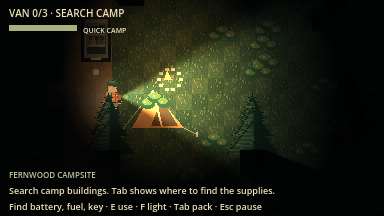
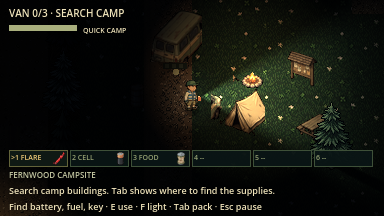
Line trails with a forest tree line; menu buttons on the right; retake README shots
- Dense jittered trees and shrubs along every woods trail edge, darker floor
  under the forest walls.
- Sight mask now reaches 12 px into walls and fades over 18 px; edge trees
  whose trail patch is in sight draw whole above the mask.
- Host/Join Co-op and Settings move into the right-hand menu column so the
  title art is unobstructed.
- All README screenshots retaken with the current art into docs/screenshots,
  including new landmark close-ups from the surround_world tour.

diff --git a/README.md b/README.md
@@ -16,7 +16,7 @@ source; standalone packages are a later milestone.
 
 See the [item reference](#items) for every item, its location and how to use it.
 
-![The forest menu with Woods Expedition and optional seed selection](docs/evidence/sight_audio/menu_defaults.png)
+![Title screen over the moonlit camp illustration, with Woods Expedition and optional seed selection](docs/screenshots/menu_defaults.png)
 
 ## Survivors, biomes and the item belt
 
@@ -50,7 +50,7 @@ Bramble Orchard, Starless Observatory, Last-Car Rail Yard, White Stone Quarry,
 and Drowned Chapel**. Each has multiple approaches, a one-time rare tool and a
 territorial guardian. Required components still come from the original regions.
 
-![Survivor selection](docs/evidence/multiplayer/survivor_selection.png)
+![Survivor selection](docs/screenshots/survivor_selection.png)
 
 [Full content guide and inspection screenshots](docs/content_update.md) covers
 hunter/guardian counterplay and the current prototype limits.
@@ -98,13 +98,16 @@ points back toward camp. The village lies northwest, bog east and graveyard sout
   their field map and as an edge marker, with a shared "pinned WITCH'S BOG"
   notice. Each player keeps their newest three pins.
 
-![Signpost arrows to camp, village and graveyard in the flashlight beam](docs/evidence/navigation/nav_signpost.png)
+![Signpost arrows to camp, village and graveyard in the flashlight beam](docs/screenshots/nav_signpost.png)
 
 Both modes default to fresh randomized camp layouts. Loot, required extra parts,
 weather, creature homes and trails use the run seed. Music plays on the menu;
 **Settings** holds the saved mixer before Play. Foreground canopies fade when
 they cover the camper, and view-local scenery rendering keeps distant forest
-active for gameplay without drawing thousands of tree sprites at once.
+active for gameplay without drawing thousands of tree sprites at once. Every
+trail is lined with dense trees and undergrowth; your sight reaches just into
+that tree line and fades to darkness, so you see the forest rising around the
+path but never the next trail through it.
 
 ## Play from source
 
@@ -146,7 +149,7 @@ explains routing, joining, revives, shared escape and replay. New joins are
 lobby-only. **Esc opens a local menu without pausing the shared world.**
 Voice/microphone capture is not enabled.
 
-![Connected co-op lobby](docs/evidence/multiplayer/lobby_camp_2.png)
+![Connected co-op lobby](docs/screenshots/lobby.png)
 
 ## Choose your night
 
@@ -464,7 +467,7 @@ the current build. Local sound follows replicated world movement; synchronized
 audio event/listening acceptance remains pending. See the [cue manifest and provenance notes](assets/audio/README.md).
 Final listening/balance and Windows/Linux/exported audio remain unverified.
 
-![Pause menu with saved Master, Effects, Ambience and Music controls](docs/evidence/audio_polish/audio_pause_mixer.png)
+![Pause menu with saved Master, Effects, Ambience and Music controls](docs/screenshots/audio_pause_mixer.png)
 
 ## Use the forest sites
 
@@ -511,7 +514,7 @@ Both modes vary building positions and surrounding trees within reserved camp
 lots. Bunk cabins can trade places, as can the bathhouse and first aid building. Door paths, loot and field-map markers move together. Roof footprints
 and main trails stay separate. Retrying a seed reproduces the camp too.
 
-![Current full-map example for Night 42 with all nine numbered regions, central Fernwood camp and 48 cryptid spawn positions](docs/evidence/denser_forest/full_map.png)
+![Current full-map example for Night 42 with all nine numbered regions, central Fernwood camp and 48 cryptid spawn positions](docs/screenshots/full_map.png)
 
 **Full-map example — Night 42.** Numbers match the region names around the map;
 **C** marks Fernwood camp and coral dots mark the 48 cryptid starting positions.
@@ -537,33 +540,33 @@ noticeably bigger than the campers.
 
 ## Screenshots
 
-Actual Godot viewport captures. The original camp/forest screenshots below are
-from the earlier verified baseline; the new-monster and optional-biome galleries
-show the content update. The camp images use Quick Camp. Region overviews deliberately raise ambient
-light and disable the sight mask to inspect entrances; normal play keeps both
+Actual Godot viewport captures with the current SpriteCook art, retaken on
+17 October 2026 (see [screenshot sources](docs/screenshots/README.md)). The camp
+images use Quick Camp. Region and landmark shots deliberately raise ambient
+light and disable the sight mask so the art is visible; normal play keeps both
 night lighting and sight restrictions. Close creature shots are inspection fixtures with
 AI disabled and the camera offset for composition. The escape result comes from
 a complete automated expedition with all enemies active.
 
-| Campsite and local lighting | Furnished Ranger Lodge |
+| Campsite, tent and escape van | Furnished mess hall |
 | --- | --- |
-| ![Camper beside the lit campsite and escape van](docs/screenshots/campsite.png) | ![Flashlight illuminating the Ranger Lodge interior](docs/screenshots/ranger_lodge.png) |
+| ![Camper beside the campfire, tent and escape van](docs/screenshots/campsite.png) | ![Flashlight on the mess hall tables, benches and stove](docs/screenshots/mess_hall.png) |
 
 | Dark woods and flashlight | Field notes and explored trails |
 | --- | --- |
-| ![A narrow flashlight beam reveals trees in otherwise dark woods](docs/evidence/surround_forest/woods_light_on.png) | ![Five-part objective clues beside the partially explored woods map](docs/evidence/surround_forest/woods_field_notes.png) |
+| ![A narrow flashlight beam reveals trees in otherwise dark woods](docs/screenshots/woods_light_on.png) | ![Five-part objective clues beside the partially explored woods map](docs/screenshots/woods_field_notes.png) |
 
 | Werewolf | Sasquatch (Bigfoot) | Lantern moth |
 | --- | --- | --- |
-| ![Original werewolf walking sprite in a flashlight beam](docs/evidence/forest_hunt/woods_werewolf.png) | ![Long-armed Sasquatch sprite in a flashlight beam](docs/evidence/forest_hunt/woods_bigfoot.png) | ![Original lantern moth sprite with patterned wings](docs/evidence/forest_hunt/woods_lantern_moth.png) |
+| ![Original werewolf walking sprite in a flashlight beam](docs/screenshots/woods_werewolf.png) | ![Long-armed Sasquatch sprite in a flashlight beam](docs/screenshots/woods_bigfoot.png) | ![Original lantern moth sprite with patterned wings](docs/screenshots/woods_lantern_moth.png) |
 
 | Vampire | Witch | Briar revenant |
 | --- | --- | --- |
-| ![Pale vampire with a high collar and long cloak](docs/evidence/forest_hunt/woods_vampire.png) | ![Witch with staff and pointed hat](docs/evidence/forest_hunt/woods_witch.png) | ![Antlered briar revenant with twig limbs](docs/evidence/forest_hunt/woods_briar_revenant.png) |
+| ![Pale vampire with a high collar and long cloak](docs/screenshots/woods_vampire.png) | ![Witch with staff and pointed hat](docs/screenshots/woods_witch.png) | ![Antlered briar revenant with twig limbs](docs/screenshots/woods_briar_revenant.png) |
 
 | Abandoned village | Witch's bog | Old graveyard |
 | --- | --- | --- |
-| ![Village huts, bell frame and well](docs/evidence/surround_forest/surround_village.png) | ![Glowing cauldron in a marsh clearing](docs/evidence/surround_forest/surround_bog.png) | ![Crypt and crooked gravestones](docs/evidence/surround_forest/surround_graveyard.png) |
+| ![Cobbled village square with the bell frame and well](docs/screenshots/landmark_village.png) | ![Bubbling cauldron on the bog boardwalk](docs/screenshots/landmark_bog.png) | ![Crypt and gravestones in dead graveyard grass](docs/screenshots/landmark_graveyard.png) |
 
 ### New monster close-ups
 
@@ -573,44 +576,45 @@ than concept art; the monster table above explains their current powers.
 
 | Switchback Hound | Boiler Saint | Bramble Seamstress |
 | --- | --- | --- |
-| ![Switchback Hound with exposed teeth and long clawed legs](docs/evidence/content_expansion/monster_switchback_hound.png) | ![Boiler Saint with brass body gauge and pipe equipment](docs/evidence/content_expansion/monster_boiler_saint.png) | ![Bramble Seamstress with twig crown and long needle](docs/evidence/content_expansion/monster_bramble_seamstress.png) |
+| ![Switchback Hound with exposed teeth and long clawed legs](docs/screenshots/monster_switchback_hound.png) | ![Boiler Saint with brass body gauge and pipe equipment](docs/screenshots/monster_boiler_saint.png) | ![Bramble Seamstress with twig crown and long needle](docs/screenshots/monster_bramble_seamstress.png) |
 
 | Shutter Wraith | Last-Car Conductor | Stoneback Ram |
 | --- | --- | --- |
-| ![Shutter Wraith with lens face and layered shroud](docs/evidence/content_expansion/monster_shutter_wraith.png) | ![Last-Car Conductor with uniform cap and hand lamp](docs/evidence/content_expansion/monster_last_car_conductor.png) | ![Stoneback Ram with stone plates and curved horns](docs/evidence/content_expansion/monster_stoneback_ram.png) |
+| ![Shutter Wraith with lens face and layered shroud](docs/screenshots/monster_shutter_wraith.png) | ![Last-Car Conductor with uniform cap and hand lamp](docs/screenshots/monster_last_car_conductor.png) | ![Stoneback Ram with stone plates and curved horns](docs/screenshots/monster_stoneback_ram.png) |
 
-![Candle Grazer with burning candles along its back](docs/evidence/content_expansion/monster_candle_grazer.png)
+![Candle Grazer with burning candles along its back](docs/screenshots/monster_candle_grazer.png)
 
 ### More roaming encounters
 
 | Relay Jackal | Ration Moth | Lens Eater |
 | --- | --- | --- |
-| ![Relay Jackal with tall ears and curved tail](docs/evidence/denser_forest/monster_relay_jackal.png) | ![Ration Moth with layered paper-like wings](docs/evidence/denser_forest/monster_ration_moth.png) | ![Lens Eater with a large vertical iris](docs/evidence/denser_forest/monster_lens_eater.png) |
+| ![Relay Jackal with tall ears and curved tail](docs/screenshots/monster_relay_jackal.png) | ![Ration Moth with layered paper-like wings](docs/screenshots/monster_ration_moth.png) | ![Lens Eater with a large vertical iris](docs/screenshots/monster_lens_eater.png) |
 
 These three species roam ordinary trails; they do not require a biome encounter.
 
 ### New optional biomes
 
-The following captures show each new region and its local guardian. Lighting is
-brightened and sight masking disabled for the inspection tour; normal play keeps
+The following captures show each new region's centrepiece at gameplay zoom,
+with the HUD hidden. Lighting is brightened and sight masking disabled for the
+inspection tour; normal play keeps
 night lighting and occlusion. The forest-site table above covers rewards, risks
 and how to navigate each site.
 
-| Flooded Mill — waterwheel, boiler and plank crossings | Bramble Orchard — fruit rows and trellises |
+| Flooded Mill — waterwheel and plank crossings | Bramble Orchard — fruit rows and trellises |
 | --- | --- |
-| ![Flooded Mill with waterwheel, gauge boiler, channels and bridges](docs/evidence/denser_forest/biome_mill.png) | ![Bramble Orchard with trellis, fruit trees and vine rows](docs/evidence/denser_forest/biome_orchard.png) |
+| ![Flooded Mill with waterwheel, relic altar and plank bridges over the channels](docs/screenshots/landmark_mill.png) | ![Bramble Orchard with trellis, fruit trees, fences and relic altar](docs/screenshots/landmark_orchard.png) |
 
-| Starless Observatory — dome and telescope | Last-Car Rail Yard — tracks and switches |
+| Starless Observatory — dome and survey rings | Last-Car Rail Yard — tracks and signals |
 | --- | --- |
-| ![Observatory dome and telescope above a radial tiled court](docs/evidence/denser_forest/biome_observatory.png) | ![Rail Yard with paired tracks, sleepers, switch and signal](docs/evidence/denser_forest/biome_rail.png) |
+| ![Observatory dome above a tiled court with survey rings](docs/screenshots/landmark_observatory.png) | ![Rail Yard with paired tracks, boxcars and two rail signals](docs/screenshots/landmark_rail.png) |
 
-| White Stone Quarry — terraces and survey rings | Drowned Chapel — columns and cross mosaic |
+| White Stone Quarry — terraces and stone piles | Drowned Chapel — columns and shrine |
 | --- | --- |
-| ![Quarry with stepped terrace markings, ladders and stone clusters](docs/evidence/denser_forest/biome_quarry.png) | ![Chapel court with broken columns, candle pews and a cross mosaic](docs/evidence/denser_forest/biome_chapel.png) |
+| ![Quarry court with ladders, stone piles and relic altar](docs/screenshots/landmark_quarry.png) | ![Chapel court with two columns, a shrine and candle pews](docs/screenshots/landmark_chapel.png) |
 
 ### Supply belt
 
-![All six supply-type slots with a noise tin selected in ordinary night lighting](docs/evidence/multiplayer/item_belt.png)
+![All six supply-type slots with a noise tin selected in ordinary night lighting](docs/screenshots/item_belt.png)
 
 The selected slot is highlighted and its supply appears in the survivor's hand.
 Use **1–6/keypad** to select, **V** to use, **G** to drop the stack and **E** to
@@ -618,7 +622,7 @@ recover units. Vehicle components and cutters remain separate from this limit.
 
 | Loading the next night | Successful extraction |
 | --- | --- |
-| ![Forest loading card before preparing the next night](docs/evidence/woods_replay/woods_loading.png) | ![Successful extraction after a complete active woods expedition](docs/evidence/surround_forest/woods_playthrough_win.png) |
+| ![Forest loading card before preparing the next night](docs/screenshots/woods_loading.png) | ![Successful extraction after a complete active woods expedition](docs/screenshots/woods_playthrough_win.png) |
 
 ## Development and verification
 

diff --git a/docs/development_log.md b/docs/development_log.md
@@ -1,5 +1,54 @@
 # Development log
 
+## 2026-10-17 — Forest tree line along every trail; menu buttons on the right
+
+Playtest feedback: trail edges looked like a rigid black line with a few tree
+tops poking up, not a surrounding forest. The title-screen buttons also covered
+the new art.
+
+- **Tree line.** `woods_terrain.gd` replaces the 32 px checkerboard of canopies
+  with trees on a jittered 20 px grid inside the forest walls: every tree
+  within 44 px of a trail is kept (the edge line), and one in three deeper in.
+  Trunks always stand inside the wall, so collision and navigation are
+  unchanged. Shrubs fill the gaps between trunks along each edge, and the
+  forest floor under the walls is shaded darker.
+- **Softer sight mask.** `WoodsVisibility` now lets sight reach 12 px into the
+  wall and then fades to black over 18 px, instead of cutting off at the wall
+  face. Corridors are separated by walls at least 64 px thick, so this never
+  reveals the next trail. Edge trees whose own patch of trail is in sight are
+  redrawn whole above the mask, so the forest rises as a silhouette instead of
+  being clipped. Monster visibility (`can_see`) is unchanged.
+- **Menu.** Host/Join Co-op and Settings joined Enter the Night, Controls and
+  Quit in the right-hand column (`Menu/Online`, `Menu/Settings`), so the left
+  side shows the title illustration. The translucent panel now spans the column.
+
+**Verification:** `python3 tools/verify.py` 101/101 steps.
+
+## 2026-10-17 — README screenshots retaken with the new art
+
+The user noted the README images predated the SpriteCook passes. Every README
+screenshot was retaken from the current build and stored in
+`docs/screenshots/` with a source table; older images in `docs/evidence/` stay
+unchanged because earlier log entries cite them.
+
+- `surround_world.gd --capture` now also saves `landmark_<region>.png`: each
+  region's centrepiece at gameplay zoom with the HUD hidden. These replace the
+  zoomed-out region and biome shots in the README, where the new bell frame,
+  well, cauldron, crypt, waterwheel, dome, signals and columns were too small to
+  see.
+- The Ranger Lodge shot (too dark to show furniture) became the mess hall.
+- Captions now describe what each new image actually shows.
+
+**Verification:** `python3 tools/verify.py` 101/101 steps. The graphical captures
+came from `verify.py --graphical` plus direct `--capture` runs of
+`camp_upgrade`, `woods_replay`, `forest_hunt`, `surround_world` (0 failures
+each) and `woods_playthrough` (0 failures, extraction won; it needs more than
+the runner's 240 s limit in a real window). `verify_network.py --mode all
+--players 2` passed and supplied the lobby image. **Not resolved:** in the
+graphical run, `offline_playthrough` lost its scripted 60-minute route to the
+stalker and the runner stopped there; the same test passes headless. No README
+image comes from that test.
+
 ## 2026-10-17 — SpriteCook: items, camp, interiors, landmarks, textures, title
 
 The user added 800 credits and asked to make everything look better while

diff --git a/docs/screenshots/README.md b/docs/screenshots/README.md
@@ -1,21 +1,33 @@
 # README screenshots
 
-These are unedited Godot viewport captures from the verified camp art tour in
-`tests/integration/camp_upgrade.gd`, run during the full graphical verification
-recorded in `../evidence/woods_replay/summary.json`.
+Unedited Godot viewport captures used by the main README, retaken on
+17 October 2026 after the SpriteCook art passes. Each file is copied from the
+`artifacts/verification/` (or `artifacts/network/`) capture named below,
+produced by `python3 tools/verify.py --graphical` and
+`python3 tools/verify_network.py --mode all --players 2`.
 
-- `campsite.png`: source `artifacts/verification/upgrade_campsite.png`.
-- `ranger_lodge.png`: source `artifacts/verification/upgrade_lodge.png`.
+| File | Source capture | Test |
+| --- | --- | --- |
+| `menu_defaults.png` | `menu_defaults.png` | `menu_defaults.gd` |
+| `survivor_selection.png` | `survivor_selection.png` | `content_expansion.gd` |
+| `nav_signpost.png` | `nav_signpost.png` | `navigation_aids.gd` |
+| `lobby.png` | `network/lobby_camp_2.png` | `network_peer.gd` |
+| `audio_pause_mixer.png` | `audio_pause_mixer.png` | `audio_polish.gd` |
+| `full_map.png` | `surround_overview.png` | `surround_world.gd` |
+| `campsite.png` | `upgrade_campsite.png` | `camp_upgrade.gd` |
+| `mess_hall.png` | `upgrade_mess_hall.png` | `camp_upgrade.gd` |
+| `woods_light_on.png`, `woods_field_notes.png` | same names | `woods_replay.gd` |
+| `woods_<creature>.png` | same names | `forest_hunt.gd` |
+| `monster_<species>.png` | same names | `content_expansion.gd` |
+| `landmark_<region>.png` | same names | `surround_world.gd` |
+| `item_belt.png` | `item_belt.png` | `content_expansion.gd` |
+| `woods_loading.png` | `woods_loading.png` | `woods_replay.gd` |
+| `woods_playthrough_win.png` | `woods_playthrough_win.png` | `woods_playthrough.gd` |
 
-Both use Quick Camp mode and controlled player placements with the stalker
-paused for art inspection. They are not complete-round playthrough captures.
-The main README reuses the committed woods evidence images for its other shots.
+Camp shots use Quick Camp with controlled player placements and the stalker
+paused for inspection. Creature portraits disable AI. Landmark close-ups
+(`landmark_*`) hide the HUD, raise ambient light and switch off the sight mask
+so the art is readable; normal nights are much darker. The extraction result
+comes from a complete automated expedition with all enemies active.
 
-
-The README's current full-map example is
-[the nine-region Night 42 atlas](../evidence/content_expansion/full_map.png),
-rendered by the `Overview` control in `tests/integration/surround_world.gd`.
-It replaces the earlier three-region example in the player guide. The old
-surrounding-forest evidence capture remains historical evidence. The current
-atlas includes the six optional biomes, camp and 24 cryptid starting positions;
-it is an inspection view, not the player's explored-only field map.
+Older captures cited by the development log stay in `../evidence/` unchanged.
